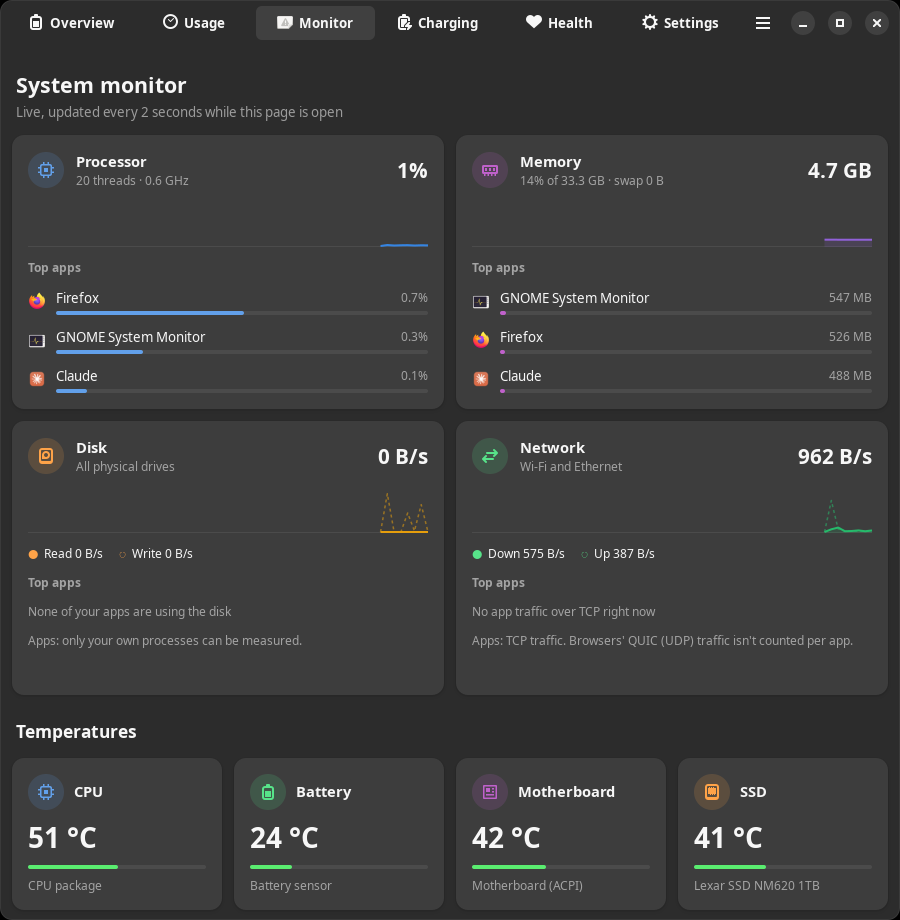
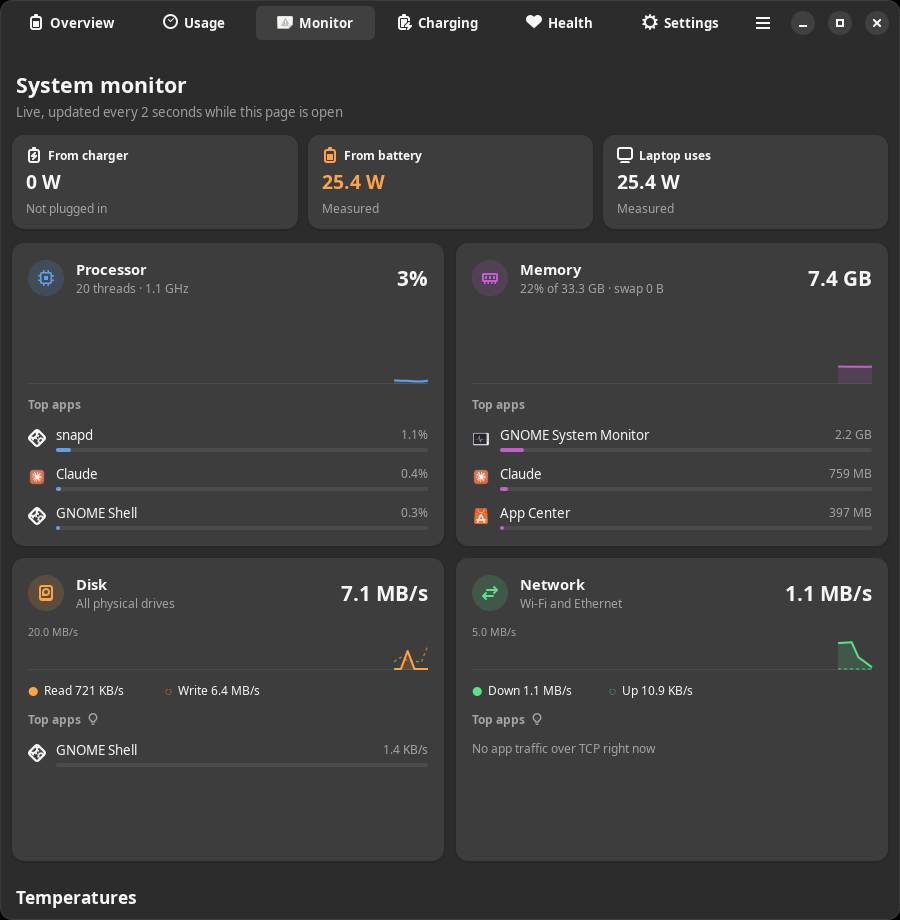
Document the power flow and Monitor changes; refresh screenshots
Changelog entries with measurements, feature list, rules 38-44, the charger power
explanation in the README, and new Overview, Usage, Monitor, Health and Settings
screenshots.

diff --git a/MAINTAINING.md b/MAINTAINING.md
@@ -67,19 +67,27 @@ Each line names where the code lives. Keep this list complete.
 - Settings re-applied after boot, resume (`data/chargekeeper-resume`) and charger changes (events).
 
 **Battery information** (`core.py`, `power.py`, `gui.py`)
-- Live level, power, time remaining, energy, temperature. Event-driven, polled only while shown.
+- Live level, time remaining, energy, temperature. Event-driven, polled only while the Overview or
+  Monitor tab is on screen.
+- Power flow: from charger, from or into battery, laptop use; measured, estimated or lower bound.
+  `core.power_flow`, `core.charger_power`, `core.typical_draw`, `gui.PowerFlow`, tray status, CLI.
 - Time remaining from a 3-minute power average; "at the current load" hint; charging time with the
   slowdown above 80%. `power.Estimator`, `core.time_remaining`
 - Health: capacity versus design, wear, cycles, daily health history chart.
-- History charts: charge level with plugged-in periods, power draw (6 h, 24 h, 7 days).
+- History charts: charge level with plugged-in periods, battery power split into drawing and
+  charging (6 h, 24 h, 7 days). `core.power_series`
 - Usage tab: time and energy on battery, average power, runtime of a full charge, time on the
-  charger, top apps by processor time on battery (sampled by the service only while on battery).
+  charger, energy into the battery, top apps by processor time on battery with app names and icons
+  (sampled by the service only while on battery).
 
 **System monitor** (`monitor.py`, `monitor_page.py`, `tray.py`)
 - Processor, memory (private memory per app), disk and network with sparklines and top 3 apps.
 - Temperatures: CPU, battery, motherboard, SSD, GPU tiles plus every sensor; per-reading
   classification for mixed embedded-controller chips.
-- Sampling every 2 s only while the Monitor tab is visible.
+- Sampling every 2 s only while the Monitor tab is visible, in a short-lived worker thread.
+- A page that holds still: fixed layout, steady top-app lists (`monitor.TopTracker`), averaged
+  headline numbers, round sparkline scales with a label (`monitor.nice_ceiling`), a gap in the line
+  after time away.
 
 **Tray** (`tray.py`)
 - Battery icon and percentage label; menu with status, limit radios, Charge to full once, System
@@ -165,6 +173,18 @@ Each rule comes from a real bug in this project. The CHANGELOG entry has the det
     aubergine, invisible on dark cards). Use explicit hex values with light and dark variants.
 25. **Custom symbolic icons need a theme root**, not a plain icon folder, or GTK won't recolour them.
 26. **Always check that every icon name exists** (`temperature-symbolic` didn't).
+41. **Live data must not change the layout.** Hiding empty rows resized all four homogeneous Monitor
+    cards and moved everything below them, every time an app started or stopped using the disk. Keep
+    the rows and blank them (`set_opacity(0)`), give changing numbers `width_chars`, and give cards a
+    minimum width, or a longer number can flip a `FlowBox`'s column count. Check with
+    `tools/monitor_stability.py`.
+42. **Rankings of nearly equal values need hysteresis.** Apps taking turns reshuffled the top-3 list
+    every 2 seconds. Average over time and overtake only with a clear lead (`monitor.TopTracker`).
+43. **Read sensors off the main thread on anything that repeats.** Two NVMe drives took 68 ms every
+    30 s, which stalled scrolling. The Monitor tab samples in a short-lived thread and only touches
+    GTK from the `idle_add` that delivers the result (which returns `SOURCE_REMOVE`, rule 1).
+44. **Don't touch a widget that didn't change.** Removing and re-adding the same CSS class restyles
+    it, and `set_from_gicon` queues a resize even with the same icon. Compare first.
 
 ### Tray (GNOME AppIndicator extension)
 
@@ -183,6 +203,14 @@ Each rule comes from a real bug in this project. The CHANGELOG entry has the det
 32. **Prove an estimator better before shipping it.** The first "smart" time estimate (blended
     averages plus last week's history) was no better than a 1-minute average; simulation picked a
     plain 3-minute average. `EstimatorAccuracyTests` fails if accuracy regresses. (`47ea86b`)
+38. **Never present what the hardware doesn't measure as a measurement.** Barrel adapters only report
+    online/offline, and UCSI's USB-C voltage and current are the negotiated contract. Charger power
+    comes from a real sensor (`power_now`, hwmon `power1_input`) or is labelled ≈ or ≥ on screen.
+    Don't read RAPL for this: it's root-only by design (PLATYPUS) and misses the screen and GPU.
+39. **A chart's line-break rule has to fit its sample rate.** The zoom-based gap on the 30-day health
+    chart (9 h) was shorter than its daily samples, so the line never drew at all. Pass `max_gap`.
+40. **One bad line must not lose the rest of a log.** A single `ValueError` ended `load_history`, so
+    a line cut short by a power failure hid everything recorded after it. Catch per row.
 
 ### Testing and tooling
 
@@ -202,7 +230,8 @@ Each rule comes from a real bug in this project. The CHANGELOG entry has the det
 1. `python3 -m unittest discover tests`: all pass. Add a test for every bug fixed and feature added.
 2. Run the change from source: `tools/run_app.py` (window) or `tools/run_app.py --tray`.
 3. If it touches the UI: look at it in a real GNOME Shell (`tools/nested-gnome.sh`), in dark and
-   light, wide and narrow.
+   light, wide and narrow. If it touches the Monitor tab: `tools/monitor_stability.py` must report
+   0 page jumps.
 4. If it touches timers, polling, reading, the tray or the service: `tools/soak.sh 600` before and
    after the change. The expected baseline on the reference laptop (Acer Predator PH315-55): tray
    about 0.015–0.02% of one core, service about 0.017%, each 1 wakeup a minute, memory flat. A
@@ -226,6 +255,7 @@ Each rule comes from a real bug in this project. The CHANGELOG entry has the det
 | `tools/click.py X Y [hover]` | Click on `:9` only. The tray icon is at about (1478, 15). |
 | `tools/xwd2png.py IN.xwd OUT.png [X Y W H]` | Convert `xwd -root -display :9` dumps. |
 | `tools/menu_cycles.py [CYCLES] [PID]` | Open and close the tray menu over D-Bus to look for leaks. |
+| `tools/monitor_stability.py [SECONDS] [REPO]` | Count page jumps, app list changes and main-loop stalls on the Monitor tab during disk bursts. Pass another checkout as REPO to compare. |
 
 Tray screenshots: start `tools/nested-gnome.sh 300 -- --tray`, wait about 30 s, click the icon with
 `tools/click.py 1478 15`, then dump and crop with `xwd` and `tools/xwd2png.py ... 1150 0 450 700`.

diff --git a/CHANGELOG.md b/CHANGELOG.md
@@ -18,6 +18,41 @@ When releasing, rename **Unreleased** to the version and date (see MAINTAINING.m
 
 ## Unreleased (since 1.0.0)
 
+### 2026-11-02: Power from charger and battery, and a Monitor tab that holds still (19b6098)
+- **Added:** a Power section on the Overview and Monitor tabs: from charger, from or into battery,
+  laptop use. Also in the tray status and `chargekeeper status`. The battery figure is measured.
+  Without a charger sensor, which most laptops lack, the charger figure is marked ≈ (typical draw on
+  battery plus charging power) or ≥ (a lower bound).
+- **Changed:** the power chart separates drawing from the battery and charging it. Usage shows energy
+  put into the battery, plus real app names and icons. "Charge to full once" is the one name
+  everywhere and only stands out while plugged in. The tray setting moved out of Notifications.
+- **Fixed (Monitor):** the page jumped whenever an app started or stopped using the disk or network,
+  because empty rows were hidden and that resized all four cards. Rows now keep their space, numbers
+  have fixed widths, and sampling moved off the main thread (reading two NVMe sensors took 68 ms).
+  Headline numbers are lightly averaged; graph scales snap to labelled round numbers; coming back to
+  the tab starts a new measurement. A small app no longer fills its bar on an idle laptop.
+- **Fixed:** the health chart never drew its line. A broken history line hid everything after it. Any
+  paused charge said "fully charged". A sensor that stopped answering left a frozen number. The
+  window polled while minimized and on tabs with no live numbers. Half-step axis labels were wrong
+  (2.5 W showed as 2 W). The tray said "held at 80%" when the battery was at 78%.
+- **Measured:** `tools/monitor_stability.py` (new), 70 s of disk bursts, old → new: page jumps 7 → 0,
+  top-app list changes 32 → 9, main-loop stalls over 16 ms 10 → 2, CPU 5.85% → 3.48% of one core.
+  `tools/soak.sh 600`, on battery: tray 0.0233% → 0.0183%, service 0.0283% → 0.0233%, memory flat.
+  The soak difference is within run-to-run noise; the point is that nothing got worse.
+- **Lesson:** live data must not change the layout; rankings need hysteresis; never show an unmeasured
+  value as measured. Rules 38–44.
+
+### 2026-11-02: Small fixes from a review (557de64)
+- **Fixed:** the LG/Toshiba and MSI notes on the Charging tab were overwritten by the general text. A
+  failed tray-extension enable showed no message. Changing the power mode blocked the window on a
+  D-Bus call. The desktop file listed two main categories.
+
+### 2026-11-02: Steady top-app lists and sensor fixes (b34eff4)
+- **Changed:** top apps are averaged over time and only overtake with a clear lead, in the window and
+  the tray. The SSD tile shows the hottest drive.
+- **Fixed:** two identical drives shared one row under All sensors. Names cut to 15 characters by the
+  kernel (`gnome-system-mo`) now match their app.
+
 ### 2026-10-31: Maintenance guide, changelog and test tools
 - **Added:** MAINTAINING.md (architecture, feature list, rules learned, pre-commit checks),
   this changelog, CLAUDE.md, and `tools/` (run from source, soak test, nested GNOME Shell,

diff --git a/README.md b/README.md
@@ -51,12 +51,16 @@ charge to full once, and see the system monitor with the top apps in each catego
 - **Calibration** on Acer, which switches itself off when done.
 
 **Battery information**
-- Live level, power, time remaining, energy and temperature, updated as they change.
+- Live level, time remaining, energy and temperature, updated as they change.
+- **Where the power goes**: how much comes from the charger, how much from the battery (or goes
+  into it) and what the laptop uses, on the Overview and the Monitor tab. Figures the laptop can't
+  measure are marked (see [Charger power](#charger-power)).
 - Health: full-charge capacity against design capacity, wear, charge cycles, and a daily health
   history.
-- Charts of charge level (with plugged-in periods) and power draw over 6 hours, 24 hours or 7 days.
+- Charts of charge level (with plugged-in periods) and battery power, with drawing from it and
+  charging it in separate colours, over 6 hours, 24 hours or 7 days.
 - Usage: time on battery, battery and energy used, average power, how long a full charge lasts,
-  and which apps used the most processor time while on battery.
+  energy put into the battery, and which apps used the most processor time while on battery.
 
 **System monitor**
 - Processor, memory, disk and network use with a 2-minute graph and the **top 3 apps** in each.
@@ -165,7 +169,9 @@ normal.
 $ chargekeeper status
 Battery     BAT1  100%  Full
 Adapter     plugged in
-Power       0.0 W
+Charger     ≈ 25 W  (estimate: no charger sensor)
+Battery out 0 W
+Laptop uses ≈ 25 W
 Health      113%  (98.4 of 87.4 Wh design)
 Temperature 23.9 °C
 
@@ -197,6 +203,19 @@ the status.
 - The **background service** re-applies your settings after boot, resume and charger changes (some
   firmware forgets them), enforces the limit on laptops without a firmware threshold, records
   history once a minute, and stops calibration and charge-to-full when they're done.
+
+### Charger power
+
+The battery reports its own power, so "from battery" and "into battery" are measurements. Chargers
+are different: most laptops only tell Linux whether one is connected, and on USB-C the kernel's
+voltage and current are the negotiated contract, not what's flowing. Chargekeeper shows:
+
+- **A measured figure** when the charger really has a sensor.
+- **≈ (an estimate)** otherwise: your typical draw on battery (the median over the last week) plus
+  whatever is going into the battery. It doesn't follow your current load, so gaming on the charger
+  will draw more than it says.
+- **≥ (at least)** while charging with fewer than 10 minutes of history on battery, because the
+  charger is supplying at least what the battery is taking.
 
 ### Live readings without wasting battery
 
@@ -330,7 +349,7 @@ you want.
 ## Development
 
 ```sh
-python3 -m unittest discover tests     # 46 tests, no root needed
+python3 -m unittest discover tests     # no root needed
 tools/run_app.py                       # run the app from the source tree
 tools/run_app.py --tray                # ...in background mode with the tray icon
 tools/soak.sh 600                      # CPU, wakeups and memory over 10 minutes

diff --git a/CLAUDE.md b/CLAUDE.md
@@ -4,7 +4,7 @@ Battery charge-limit and monitoring app for Linux laptops (Python, GTK 4 / libad
 via polkit, systemd service).
 
 Before changing anything, read [MAINTAINING.md](MAINTAINING.md): architecture, the feature list,
-37 rules learned from real bugs in this project, and the checks to run before every commit.
+44 rules learned from real bugs in this project, and the checks to run before every commit.
 History is in [CHANGELOG.md](CHANGELOG.md).
 
 - Tests: `python3 -m unittest discover tests` (no root, no display).
